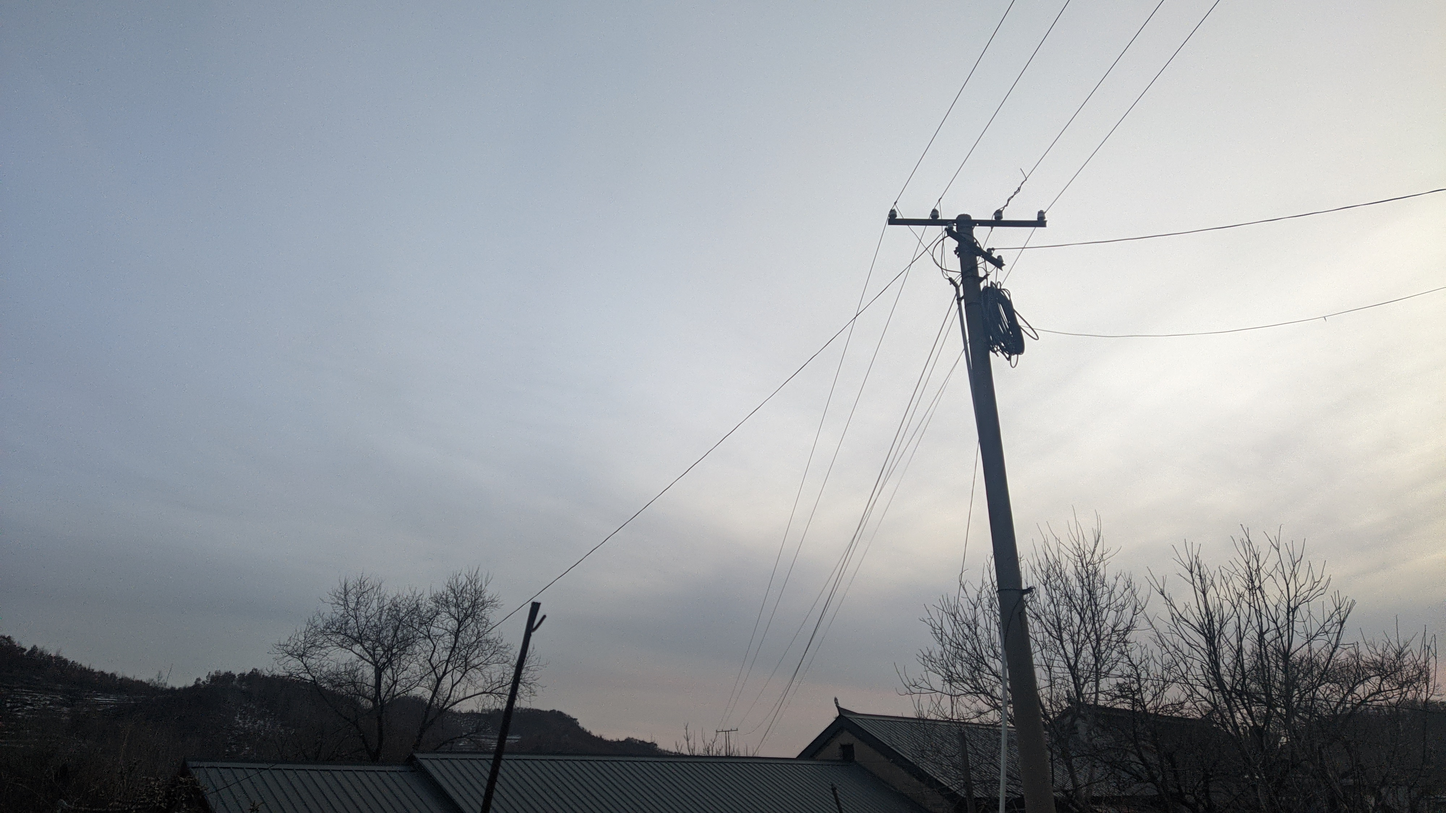
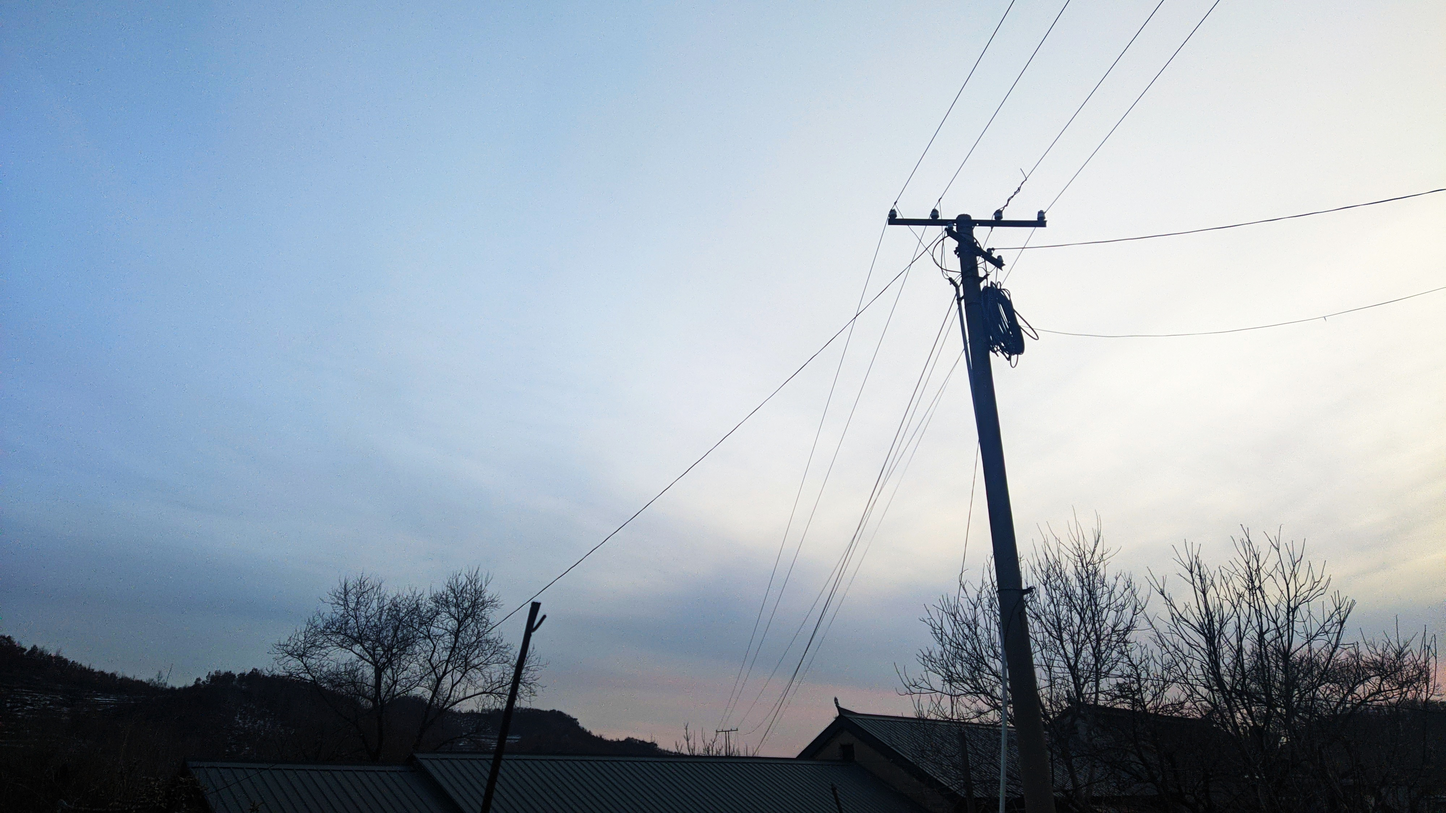
Site updated: 2024-02-09 17:33:08

diff --git a/photos/index.html b/photos/index.html
@@ -18,18 +18,18 @@
     <meta name="googlebot" content="index,follow">
     <meta name="revisit-after" content="1 days">
     
-        <meta name="description" content="图集 这是一个图集 如下是一些图片 有我在家附近拍的照片一类 其实我也不是一个摄影爱好者 单纯是想记录下自己觉得好看的风景而已 照片都不怎么好看，不喜勿喷 拍摄设备：红米K40 使用谷歌相机拍摄 我叫这张图“余晖” 没别的意思，单纯是太阳落山后的余晖 是在我家西面的杏树旁拍的 这也是本站首页的背景图 这张图叫“阴盈” 当时是阴天，随便取的 是在我家前院的电线杆旁拍的 这张图的整体色调给人一种浓浓的">
+        <meta name="description" content="图集 这是一个图集 如下是一些图片 有我在家附近拍的照片一类 其实我也不是一个摄影爱好者 单纯是想记录下自己觉得好看的风景而已 照片都不怎么好看，不喜勿喷 拍摄设备：红米K40 使用谷歌相机拍摄 （以下照片大多经过调色，因为k40配谷歌相机拍出来的照片有一种荒凉的感觉，不调不行） 我叫这张图“余晖” 没别的意思，单纯是太阳落山后的余晖 是在我家西面的杏树旁拍的 这也是本站首页的背景图 这张图叫“阴">
 <meta property="og:type" content="website">
 <meta property="og:title" content="图集">
 <meta property="og:url" content="https://kjblogs.sdos.top/photos/index.html">
 <meta property="og:site_name" content="KJ-Blogs">
-<meta property="og:description" content="图集 这是一个图集 如下是一些图片 有我在家附近拍的照片一类 其实我也不是一个摄影爱好者 单纯是想记录下自己觉得好看的风景而已 照片都不怎么好看，不喜勿喷 拍摄设备：红米K40 使用谷歌相机拍摄 我叫这张图“余晖” 没别的意思，单纯是太阳落山后的余晖 是在我家西面的杏树旁拍的 这也是本站首页的背景图 这张图叫“阴盈” 当时是阴天，随便取的 是在我家前院的电线杆旁拍的 这张图的整体色调给人一种浓浓的">
+<meta property="og:description" content="图集 这是一个图集 如下是一些图片 有我在家附近拍的照片一类 其实我也不是一个摄影爱好者 单纯是想记录下自己觉得好看的风景而已 照片都不怎么好看，不喜勿喷 拍摄设备：红米K40 使用谷歌相机拍摄 （以下照片大多经过调色，因为k40配谷歌相机拍出来的照片有一种荒凉的感觉，不调不行） 我叫这张图“余晖” 没别的意思，单纯是太阳落山后的余晖 是在我家西面的杏树旁拍的 这也是本站首页的背景图 这张图叫“阴">
 <meta property="og:locale" content="zh_CN">
 <meta property="og:image" content="https://kjblogs.sdos.top/images/%E4%BD%99%E6%99%96.jpg">
 <meta property="og:image" content="https://kjblogs.sdos.top/images/%E9%98%B4%E7%9B%88.jpg">
 <meta property="og:image" content="https://kjblogs.sdos.top/images/%E8%BF%9F%E6%9D%A5%E7%9A%84%E7%A7%8B%E6%84%8F.jpg">
 <meta property="article:published_time" content="2024-02-07T10:14:09.000Z">
-<meta property="article:modified_time" content="2024-02-08T01:25:49.329Z">
+<meta property="article:modified_time" content="2024-02-09T09:32:44.118Z">
 <meta property="article:author" content="科家">
 <meta property="article:tag" content="kj,kejia">
 <meta name="twitter:card" content="summary">
@@ -516,7 +516,8 @@
 <li>单纯是想记录下自己觉得好看的风景而已</li>
 <li>照片都不怎么好看，不喜勿喷</li>
 <li>拍摄设备：红米K40</li>
-<li>使用谷歌相机拍摄<br><img  
+<li>使用谷歌相机拍摄</li>
+<li>（以下照片大多经过调色，因为k40配谷歌相机拍出来的照片有一种荒凉的感觉，不调不行）<br><img  
                      lazyload
                      src="/images/loading.svg"
                      data-src="/images/%E4%BD%99%E6%99%96.jpg"
